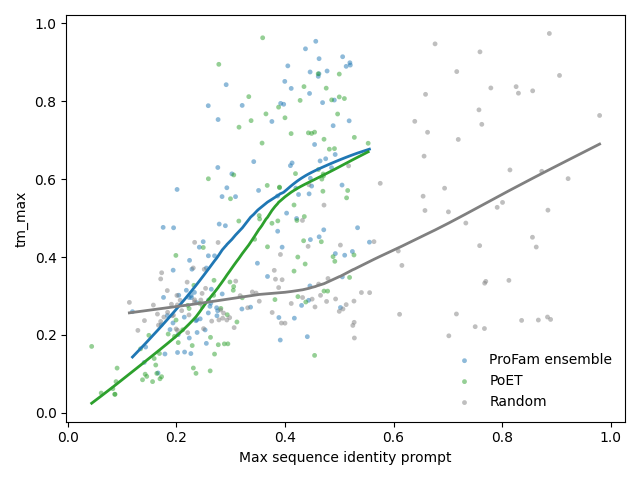
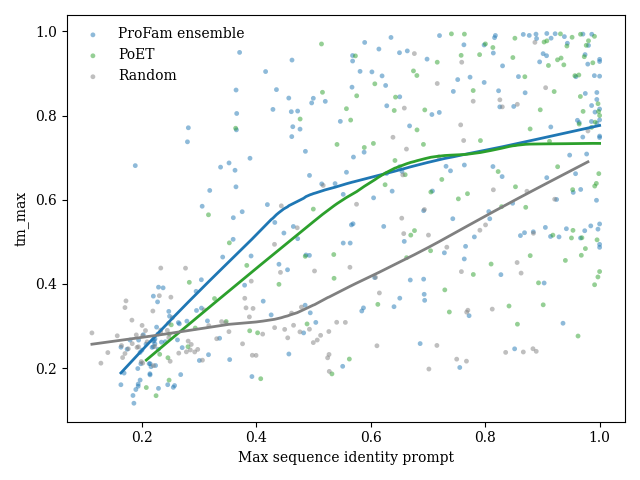
no ensemble sampling with seed

diff --git a/scripts/adhoc_analysis/compare_profam_poet_structural_comparison_single_ensemble.py b/scripts/adhoc_analysis/compare_profam_poet_structural_comparison_single_ensemble.py
@@ -1,0 +1,144 @@
+import matplotlib.pyplot as plt
+import matplotlib as mpl
+import pandas as pd
+import seaborn as sns
+import numpy as np
+from statsmodels.nonparametric.smoothers_lowess import lowess
+import os
+
+# Set Times New Roman as the default font
+mpl.rcParams['font.family'] = 'serif'
+mpl.rcParams['font.serif'] = ['Times New Roman', 'Times', 'DejaVu Serif', 'serif']
+mpl.rcParams['mathtext.fontset'] = 'stix'  # For math text compatibility with Times
+
+colors = {"ProFam": "#1f77b4", "PoET": "#2ca02c", "Random": "#808080"}
+
+
+
+def make_structure_sequence_similarity_plots(
+    profam_ensemble_df: pd.DataFrame,
+    profam_single_df: pd.DataFrame,
+    poet_df: pd.DataFrame, 
+    random_df: pd.DataFrame,
+    plot_ensemble: bool = True,
+    plot_single: bool = True,
+    plot_poet: bool = True,
+    plot_random: bool = True,
+    save_name: str = "",
+):
+    structure_metrics = ["tm_max", "lddt_max", "mean_plddt"]
+
+    colors = {
+        "profam_ensemble": "#1f77b4",  # blue
+        "profam_single": "#ff7f0e",    # orange
+        "poet": "#2ca02c",            # green
+        "random": "#808080",          # gray
+    }
+
+    for structure_metric in structure_metrics:
+        plt.figure()
+
+        # ProFam ensemble
+        if plot_ensemble:
+            x = profam_ensemble_df["seq_identity_max"].to_numpy(dtype=float)
+            y = profam_ensemble_df[structure_metric].to_numpy(dtype=float)
+            mask = np.isfinite(x) & np.isfinite(y)
+            print(f"ProFam ensemble: {len(x[mask])} points")
+            x_valid, y_valid = x[mask], y[mask]
+            if x_valid.size > 0:
+                plt.scatter(x_valid, y_valid, s=12, alpha=0.5, label="ProFam ensemble", color=colors["profam_ensemble"], edgecolors="none")
+                try:
+                    smoothed = lowess(y_valid, x_valid, frac=0.6, return_sorted=True)
+                    plt.plot(smoothed[:, 0], smoothed[:, 1], color=colors["profam_ensemble"], linewidth=2)
+                except Exception:
+                    pass
+
+        # ProFam single
+        if plot_single:
+            x = profam_single_df["seq_identity_max"].to_numpy(dtype=float)
+            y = profam_single_df[structure_metric].to_numpy(dtype=float)
+            mask = np.isfinite(x) & np.isfinite(y)
+            print(f"ProFam single: {len(x[mask])} points")
+            x_valid, y_valid = x[mask], y[mask]
+            if x_valid.size > 0:
+                plt.scatter(x_valid, y_valid, s=12, alpha=0.5, label="ProFam single", color=colors["profam_single"], edgecolors="none")
+                try:
+                    smoothed = lowess(y_valid, x_valid, frac=0.6, return_sorted=True)
+                    plt.plot(smoothed[:, 0], smoothed[:, 1], color=colors["profam_single"], linewidth=2)
+                except Exception:
+                    pass
+
+        # PoET (no mode subset)
+        if plot_poet:
+            x = poet_df["seq_identity_max"].to_numpy(dtype=float)
+            y = poet_df[structure_metric].to_numpy(dtype=float)
+            mask = np.isfinite(x) & np.isfinite(y)
+            print(f"PoET: {len(x[mask])} points")
+            x_valid, y_valid = x[mask], y[mask]
+            if x_valid.size > 0:
+                plt.scatter(x_valid, y_valid, s=12, alpha=0.5, label="PoET", color=colors["poet"], edgecolors="none")
+                try:
+                    smoothed = lowess(y_valid, x_valid, frac=0.6, return_sorted=True)
+                    plt.plot(smoothed[:, 0], smoothed[:, 1], color=colors["poet"], linewidth=2)
+                except Exception:
+                    pass
+
+        # Random
+        if plot_random:
+            x = random_df["seq_identity_max"].to_numpy(dtype=float)
+            y = random_df[structure_metric].to_numpy(dtype=float)
+            mask = np.isfinite(x) & np.isfinite(y)
+            print(f"Random: {len(x[mask])} points")
+            x_valid, y_valid = x[mask], y[mask]
+            if x_valid.size > 0:
+                plt.scatter(x_valid, y_valid, s=12, alpha=0.5, label="Random", color=colors["random"], edgecolors="none")
+                try:
+                    smoothed = lowess(y_valid, x_valid, frac=0.6, return_sorted=True)
+                    plt.plot(smoothed[:, 0], smoothed[:, 1], color=colors["random"], linewidth=2)
+                except Exception:
+                    pass
+
+        plt.xlabel("Max sequence identity prompt")
+        plt.ylabel(structure_metric)
+        plt.legend(frameon=False)
+        plt.tight_layout()
+        figname = "structure_sequence_similarity"
+        if plot_ensemble:
+            figname += "_ensemble"
+        if plot_single:
+            figname += "_single"
+        if plot_poet:
+            figname += "_poet"
+        if plot_random:
+            figname += "_random"
+        plt.savefig(f"plots_for_paper/{figname}_{structure_metric}_{save_name}.png")
+        plt.close()
+
+
+if __name__ == "__main__":
+    profam_csv = "../sampling_results/colabfold_outputs/profam_structural_evaluation.csv"
+    poet_csv = "../sampling_results/colabfold_outputs/poet_structural_eval/poet_structural_evaluation.csv"
+    random_csv = "../sampling_results/randomly_mutated_sequences/random_colabfold_outputs/random_structural_evaluation.csv"
+    profam_csv = "/mnt/disk2/cath_plm/sampling_results/colabfold_outputs/profam_structural_evaluation.csv"
+
+    profam_df = pd.read_csv(profam_csv)
+    print(f"ProFam df: {profam_df.shape}")
+    profam_df_single = profam_df[profam_df.generated_pdb.str.contains("single")]
+    profam_df_ensemble = profam_df[profam_df.generated_pdb.str.contains("ensemble")]
+    print(f"ProFam single df: {profam_df_single.shape}")
+    print(f"ProFam ensemble df: {profam_df_ensemble.shape}")
+    poet_df = pd.read_csv(poet_csv)
+    print(f"PoET df: {poet_df.shape}")
+    random_df = pd.read_csv(random_csv)
+    print(f"Random df: {random_df.shape}")
+    make_structure_sequence_similarity_plots(
+        profam_ensemble_df = profam_df_ensemble, 
+        profam_single_df = profam_df_single, 
+        poet_df = poet_df, 
+        random_df = random_df, 
+        plot_ensemble=True, 
+        plot_single=True, 
+        plot_poet=True, 
+        plot_random=True,
+        save_name="foldseek_combined_val_test_single_ensemble_poet_random",
+    )

diff --git a/scripts/adhoc_analysis/plot_min_max_length_ratio_poet_and_profam.py b/scripts/adhoc_analysis/plot_min_max_length_ratio_poet_and_profam.py
@@ -2,7 +2,16 @@
 import pandas as pd
 import glob
 import matplotlib.pyplot as plt
+import matplotlib as mpl
 import numpy as np
+import os
+
+# Match styling used in compare_profam_poet_structual_comparison.py
+mpl.rcParams['font.family'] = 'serif'
+mpl.rcParams['font.serif'] = ['Times New Roman', 'Times', 'DejaVu Serif', 'serif']
+mpl.rcParams['mathtext.fontset'] = 'stix'
+
+colors = {"ProFam": "#1f77b4", "PoET": "#2ca02c", "Random": "#808080"}
 
 # profam_df = pd.read_csv("/mnt/disk2/cath_plm/sampling_results/profam_sequence_only_evaluation.csv")
 # profam_df = profam_df[profam_df['aligned_generation_path'].str.contains("ensemble")]
@@ -25,6 +34,82 @@ import numpy as np
 # plt.clf()
 # bp=1
 
+def make_barplot_proportion_within_length_range(
+    profam_df,
+    poet_df,
+    min_proportion=0.66,
+    max_proportion=1.5,
+    include_ci=True,
+    save_path=None,
+):
+    """
+    Plot the proportion of generated sequences whose lengths fall within
+    [min_proportion * min(prompt lengths), max_proportion * max(prompt lengths)].
+
+    Using available columns:
+      - coverage_min = generated_len / max(prompt_len)
+      - coverage_max = generated_len / min(prompt_len)
+    Condition: (coverage_min <= max_proportion) & (coverage_max >= min_proportion)
+    """
+
+    def wilson_ci(num_success, num_total, z=1.96):
+        if num_total <= 0:
+            return np.nan, np.nan
+        p_hat = num_success / num_total
+        denom = 1.0 + (z ** 2) / num_total
+        center = (p_hat + (z ** 2) / (2.0 * num_total)) / denom
+        half_width = (
+            z
+            * np.sqrt(
+                (p_hat * (1.0 - p_hat)) / num_total + (z ** 2) / (4.0 * (num_total ** 2))
+            )
+            / denom
+        )
+        low = max(0.0, center - half_width)
+        high = min(1.0, center + half_width)
+        return low, high
+
+    results = []
+    for name, df in [("ProFam", profam_df), ("PoET", poet_df)]:
+        df_filt = df.copy()
+        # Ensure finite values
+        df_filt = df_filt[np.isfinite(df_filt.get("coverage_min", np.nan)) & np.isfinite(df_filt.get("coverage_max", np.nan))]
+
+        within = (df_filt["coverage_min"] <= max_proportion) & (df_filt["coverage_max"] >= min_proportion)
+        n = int(len(df_filt))
+        k = int(within.sum())
+        prop = (k / n) if n > 0 else np.nan
+        low, high = (np.nan, np.nan)
+        if include_ci and n > 0:
+            low, high = wilson_ci(k, n)
+        results.append({"name": name, "prop": prop, "low": low, "high": high, "n": n, "k": k})
+
+    labels = [r["name"] for r in results]
+    props = [r["prop"] for r in results]
+    bar_colors = [colors.get(lbl, "#333333") for lbl in labels]
+
+    if include_ci:
+        lower_err = [(p - l) if (np.isfinite(p) and np.isfinite(l)) else 0.0 for p, l in [(r["prop"], r["low"]) for r in results]]
+        upper_err = [(h - p) if (np.isfinite(p) and np.isfinite(h)) else 0.0 for p, h in [(r["prop"], r["high"]) for r in results]]
+        yerr = np.array([lower_err, upper_err])
+    else:
+        yerr = None
+
+    plt.figure(figsize=(6, 4))
+    plt.bar(labels, props, color=bar_colors, yerr=yerr, capsize=4)
+    plt.ylim(0, 1.0)
+    plt.ylabel(f"Proportion within length range [{min_proportion}, {max_proportion}]")
+    plt.title("Proportion of sequences within length range", pad=12)
+    plt.tight_layout()
+
+    if save_path is None:
+        min_str = str(min_proportion).replace(".", "p")
+        max_str = str(max_proportion).replace(".", "p")
+        save_path = f"plots_for_paper/proportion_within_length_range_{min_str}_{max_str}_no_ensemble.png"
+    os.makedirs(os.path.dirname(save_path), exist_ok=True)
+    plt.savefig(save_path, dpi=300, bbox_inches="tight")
+    plt.close()
+
 pattern = "../sampling_results/foldseek_*/*ensemble*/alignments/*generated_seq_stats.csv"
 csv_paths = glob.glob(pattern)
 df = pd.concat([pd.read_csv(csv_path) for csv_path in csv_paths])
@@ -32,6 +117,16 @@ min_ratio_profam = np.clip((df.coverage_max ** -1).to_numpy(), 0, 4)
 poet_pattern = "../sampling_results/poet/poet_foldseek_*/generated_sequences_foldseek_*/alignments/*_seq_stats.csv"
 poet_csv_paths = glob.glob(poet_pattern)
 poet_df = pd.concat([pd.read_csv(csv_path) for csv_path in poet_csv_paths])
+
+# Barplot of proportion within specified length range (with error bars)
+make_barplot_proportion_within_length_range(
+    profam_df=df,
+    poet_df=poet_df,
+    min_proportion=0.66,
+    max_proportion=1.5,
+    include_ci=True,
+)
+
 min_ratio_poet = np.clip((poet_df.coverage_max ** -1).to_numpy(), 0, 4)
 edges_min = np.linspace(
     min(min_ratio_profam.min(), min_ratio_poet.min()),
@@ -58,3 +153,5 @@ plt.xlabel("generated seq len / max(prompt len)")
 plt.legend()
 plt.savefig("length_ratio_generated_over_max_prompt_len_poet_and_profam.png")
 plt.clf()
+
+

diff --git a/scripts/sample_sequences_from_checkpoint_model.py b/scripts/sample_sequences_from_checkpoint_model.py
@@ -102,6 +102,7 @@ def main():
     )
     parser.add_argument("--task_index", type=int, default=None, help="Task index")
     parser.add_argument("--num_tasks", type=int, default=None, help="Number of tasks")
+    parser.add_argument("--disable_repeat_guard", action="store_true", default=False, help="Disable repeat guard")
     parser.add_argument("--seed", type=int, default=42, help="Random seed for reproducible sampling")
     parser.add_argument(
         "--attn_implementation",
@@ -111,6 +112,7 @@ def main():
         help="Override attention implementation before model init (e.g. flash_attention_2)",
     )
     args = parser.parse_args()
+    repeat_guard = not args.disable_repeat_guard
     if args.max_tokens > 8192:
         raise ValueError("Max tokens must be less than or equal to 8192: model was only trained up to 8192 tokens, not likely to work at lengths above this")
     # Seed RNGs for reproducibility
@@ -142,10 +144,8 @@ def main():
     }
     model.to(args.device, dtype=dtype_map[args.dtype])
 
-    # Prepare save directory
     os.makedirs(args.save_dir, exist_ok=True)
 
-    # Collect input files
     input_files = sorted(glob.glob(args.glob))
     if args.task_index is not None and args.num_tasks is not None:
         batch_size = len(input_files) // args.num_tasks
@@ -177,7 +177,6 @@ def main():
     )
     preprocessor = ProteinDocumentPreprocessor(cfg=cfg)
 
-    # Build sampler according to selection
     if args.sampler == "ensemble":
         builder = EnsemblePromptBuilder(preprocessor=preprocessor, shuffle=True, seed=args.seed)
         sampler = ProFamEnsembleSampler(
@@ -237,6 +236,7 @@ def main():
                     minimum_sequence_length_proportion=args.minimum_sequence_length_proportion,
                     minimum_sequence_identity=args.minimum_sequence_identity,
                     maximum_retries=args.maximum_retries,
+                    repeat_guard=repeat_guard,
                 )
             else:
                 preprocessor.cfg.max_tokens_per_example = args.max_tokens - max_gen_len
@@ -263,6 +263,7 @@ def main():
                     minimum_sequence_length_proportion=args.minimum_sequence_length_proportion,
                     minimum_sequence_identity=args.minimum_sequence_identity,
                     maximum_retries=args.maximum_retries,
+                    repeat_guard=repeat_guard,
                 )
 
 

diff --git a/scripts/adhoc_analysis/compare_profam_poet_structual_comparison.py b/scripts/adhoc_analysis/compare_profam_poet_structual_comparison.py
@@ -12,10 +12,11 @@ mpl.rcParams['font.serif'] = ['Times New Roman', 'Times', 'DejaVu Serif', 'serif
 mpl.rcParams['mathtext.fontset'] = 'stix'  # For math text compatibility with Times
 
 colors = {"ProFam": "#1f77b4", "PoET": "#2ca02c", "Random": "#808080"}
-# profam_csv = "../sampling_results/colabfold_outputs/profam_structural_evaluation.csv"
+profam_csv = "../sampling_results/colabfold_outputs/profam_structural_evaluation.csv"
+
 # poet_csv = "../sampling_results/colabfold_outputs/poet_structural_eval/poet_structural_evaluation.csv"
-profam_csv = "../sampling_results/colabfold_outputs/foldseek_combined_val_test_2025_09_17_seq_sim_lt_0p5/structural_evaluation.csv"
-poet_csv = "../sampling_results/poet/poet_colabfold_outputs_seq_sim_lt_0p5/structural_evaluation.csv"
+# profam_csv = "../sampling_results/colabfold_outputs/foldseek_combined_val_test_2025_09_17_seq_sim_lt_0p5/structural_evaluation.csv"
+# poet_csv = "../sampling_results/poet/poet_colabfold_outputs_seq_sim_lt_0p5/structural_evaluation.csv"
 random_csv = "../sampling_results/randomly_mutated_sequences/random_colabfold_outputs/random_structural_evaluation.csv"
 
 
@@ -256,15 +257,15 @@ def make_structure_sequence_similarity_plots(
 
 
 entropy_correlation_density_plots()
-# make_structure_sequence_similarity_plots(
-#     profam_ensemble_df = profam_df, 
-#     profam_single_df = None, 
-#     poet_df = poet_df, 
-#     random_df = random_df, 
-#     plot_ensemble=True, 
-#     plot_single=False, 
-#     plot_poet=True, 
-#     plot_random=True,
-#     save_name="foldseek_combined_val_test_2025_09_17_seq_sim_lt_0p5",
-# )
+make_structure_sequence_similarity_plots(
+    profam_ensemble_df = profam_df, 
+    profam_single_df = None, 
+    poet_df = poet_df, 
+    random_df = random_df, 
+    plot_ensemble=True, 
+    plot_single=False, 
+    plot_poet=True, 
+    plot_random=True,
+    save_name="foldseek_combined_val_test_2025_09_17_seq_sim_lt_0p5",
+)
 barplot_prop_with_good_tm_score(profam_df, poet_df, random_df, seq_threshold=0.4, tm_threshold=0.5, include_ci=True, save_path="plots_for_paper/prop_good_tm_seq_lt_0.4_tm_ge_0.5.png")
